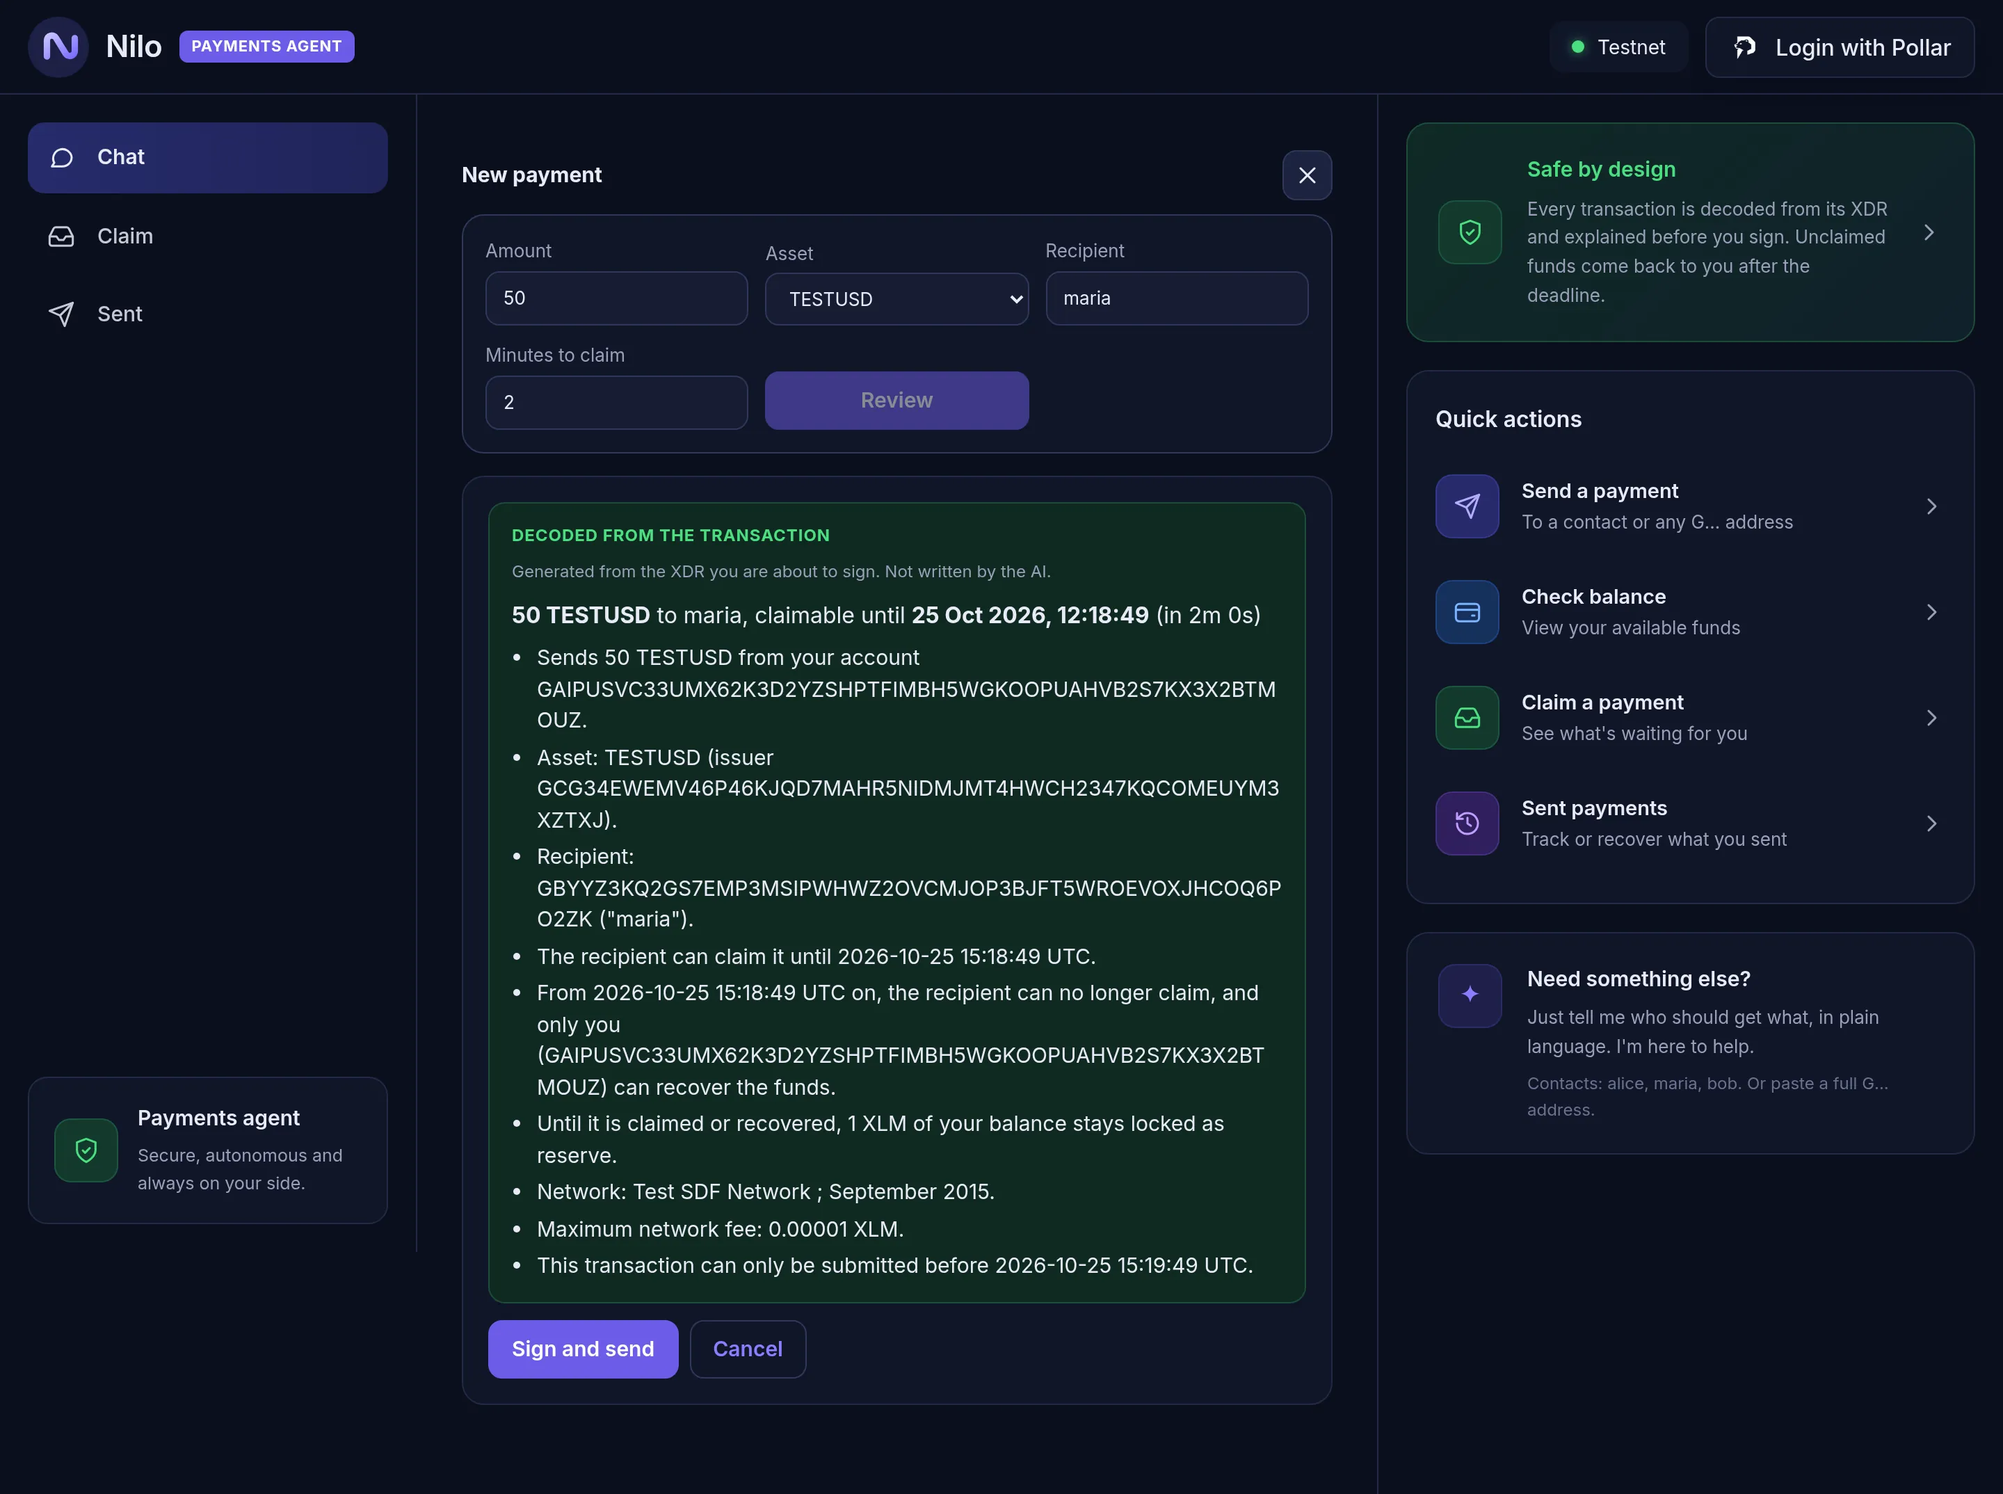
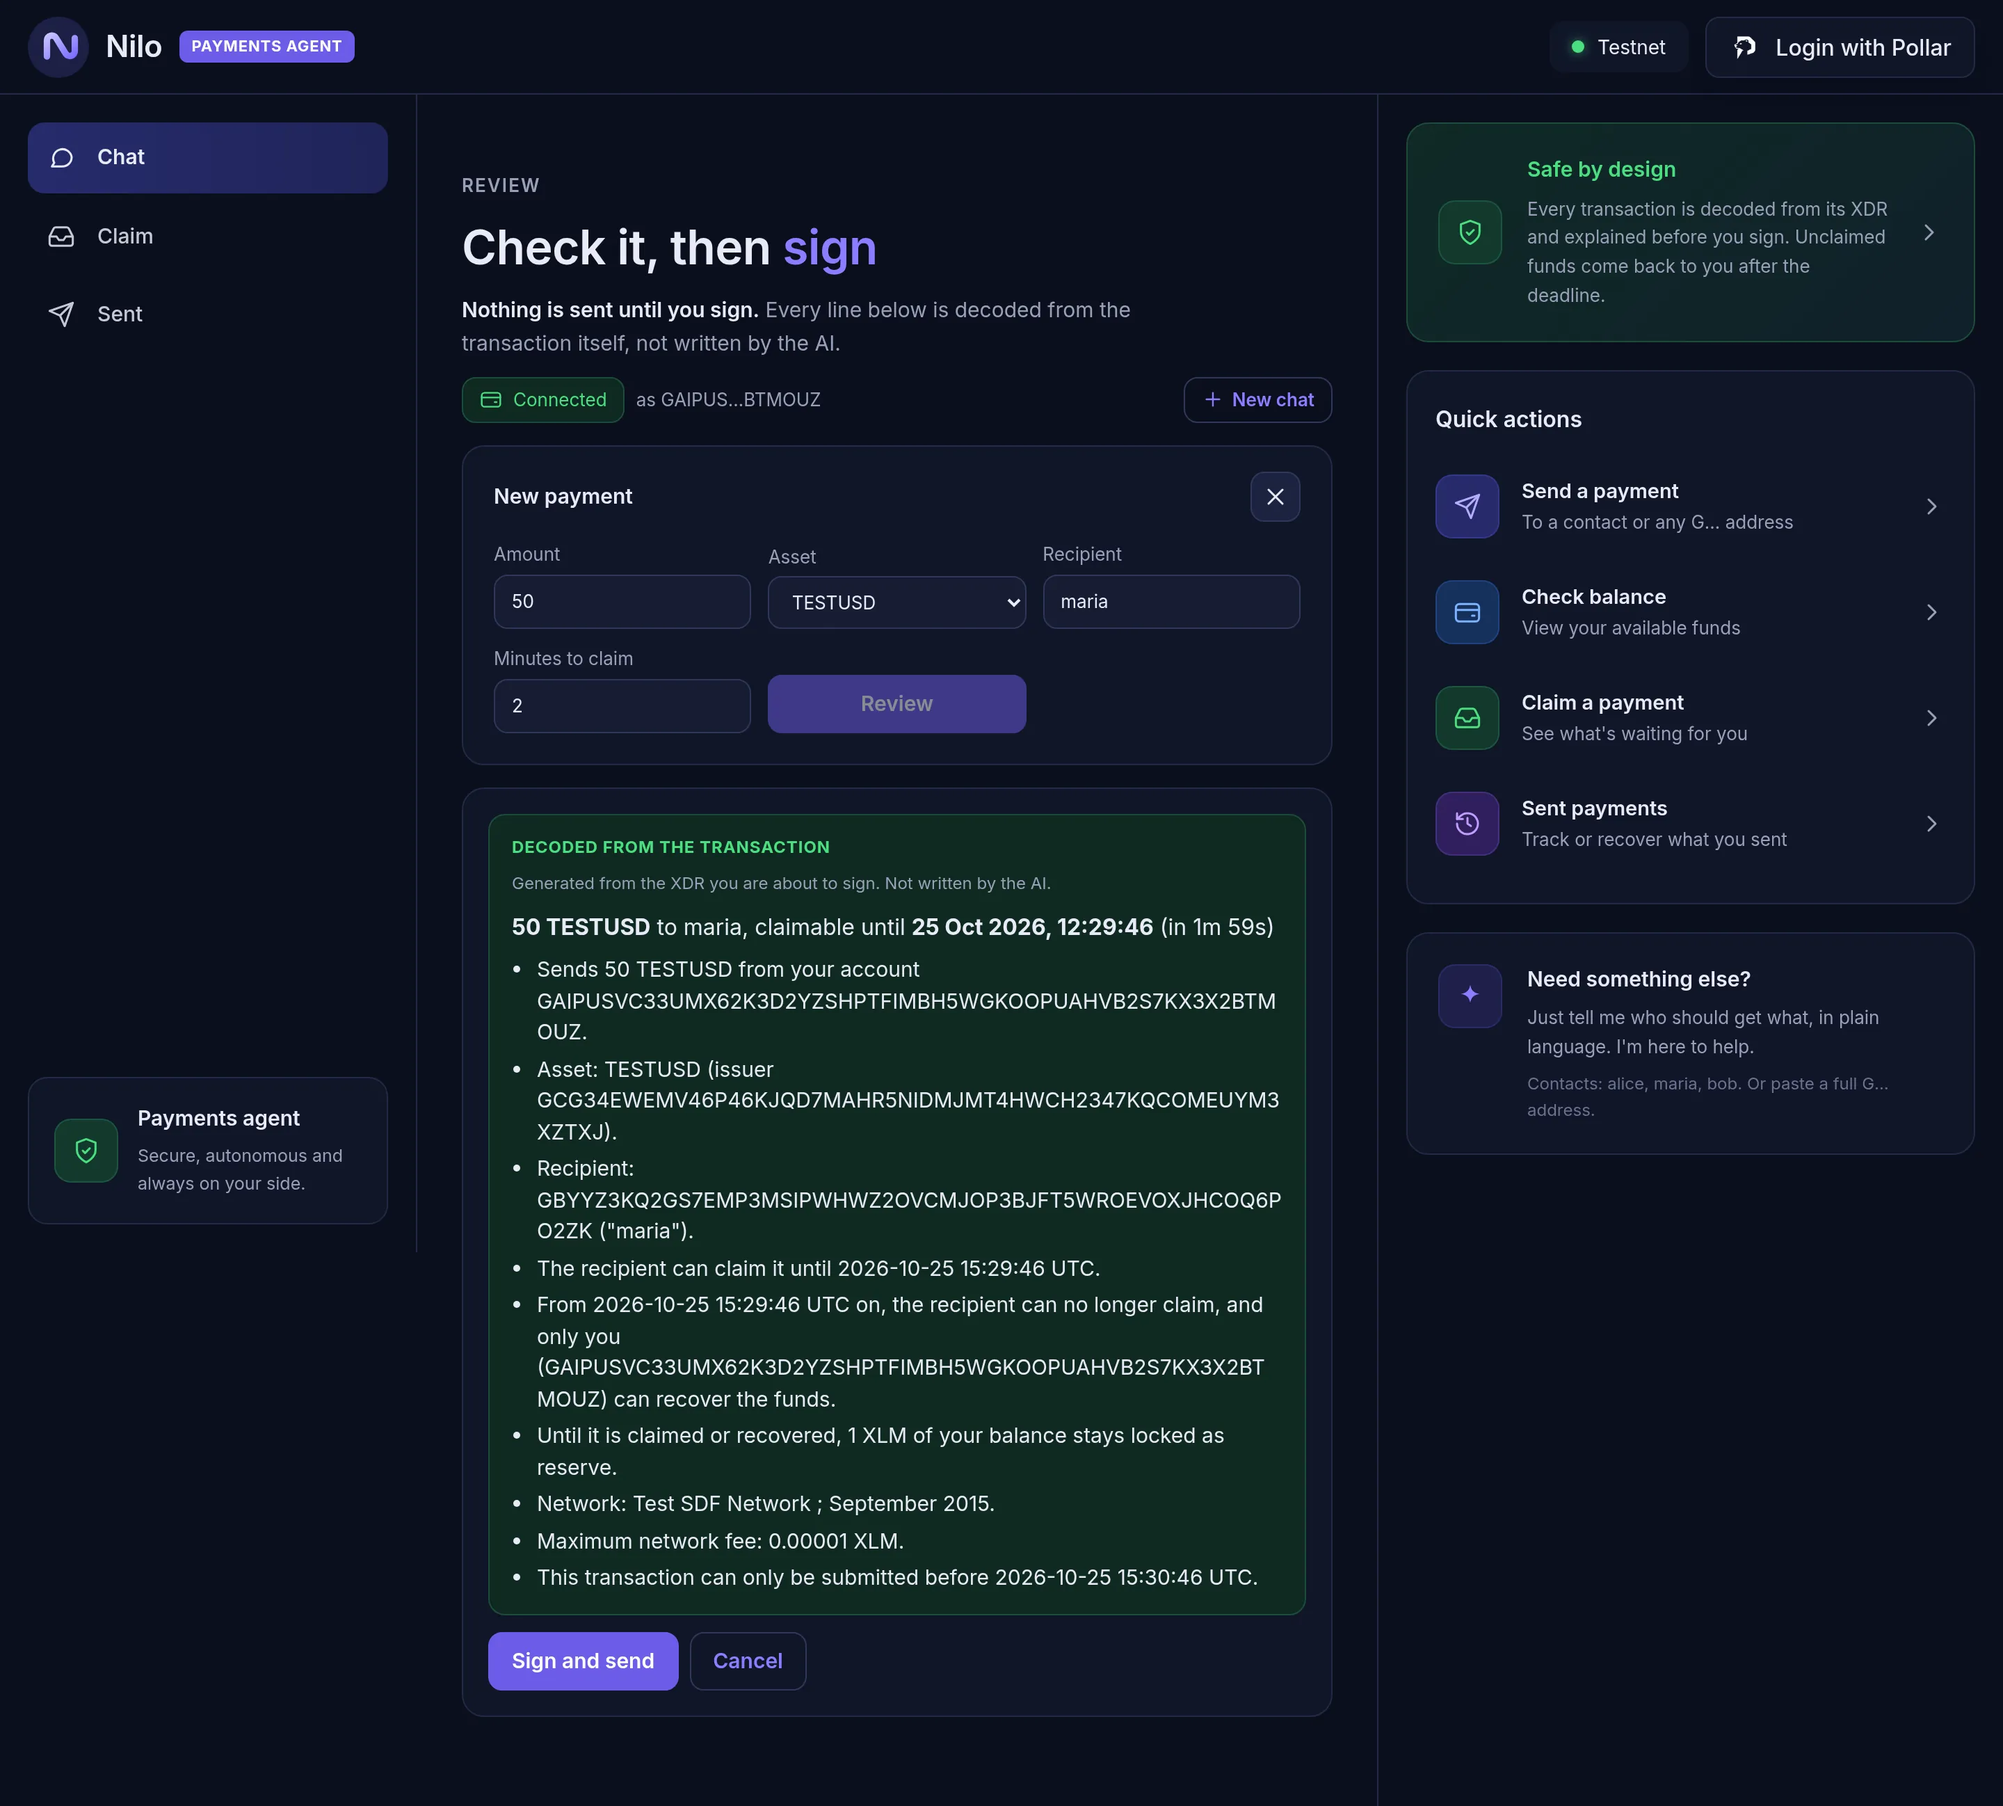
Restyle the review step like Claim
While a payment is under review the page head switches to Review:
"Check it, then sign" with a line saying nothing is sent until you
sign. The payment form and its header now sit in one card. README
review screenshot refreshed.

diff --git a/apps/web/src/pages/Send.tsx b/apps/web/src/pages/Send.tsx
@@ -176,16 +176,31 @@ export function SendPage() {
   return (
     <div className="stack chat-page page-wide">
       <header className="page-head">
-        <span className="eyebrow">Chat</span>
-        <h1>
-          Hi! I'm <span className="accent-word">Nilo</span>
-        </h1>
-        <p className="muted">
-          <strong className="lead">Your payments agent on Stellar.</strong>{" "}
-          {fresh
-            ? "Tell me who should get what and how long they have. I build the transaction, explain it in plain words before you sign, and you get it back if nobody claims it."
-            : "Ask for another payment, check your balance, or start over."}
-        </p>
+        {pending ? (
+          <>
+            <span className="eyebrow">Review</span>
+            <h1>
+              Check it, then <span className="accent-word">sign</span>
+            </h1>
+            <p className="muted">
+              <strong className="lead">Nothing is sent until you sign.</strong> Every line below is decoded from the
+              transaction itself, not written by the AI.
+            </p>
+          </>
+        ) : (
+          <>
+            <span className="eyebrow">Chat</span>
+            <h1>
+              Hi! I'm <span className="accent-word">Nilo</span>
+            </h1>
+            <p className="muted">
+              <strong className="lead">Your payments agent on Stellar.</strong>{" "}
+              {fresh
+                ? "Tell me who should get what and how long they have. I build the transaction, explain it in plain words before you sign, and you get it back if nobody claims it."
+                : "Ask for another payment, check your balance, or start over."}
+            </p>
+          </>
+        )}
         <div className="row">
           {address && (
             <>

diff --git a/apps/web/src/styles.css b/apps/web/src/styles.css
@@ -192,8 +192,13 @@ a.rail-card:hover { border-color: #2a6a50; }
 .bubble.user { align-self: flex-end; background: var(--accent-grad); color: #fff; border-bottom-right-radius: 6px; }
 .bubble.assistant { align-self: flex-start; background: var(--surface-2); border: 1px solid var(--border); border-bottom-left-radius: 6px; }
 
-.form-wrap { display: flex; flex-direction: column; gap: 10px; }
+.form-wrap {
+  display: flex; flex-direction: column; gap: 14px; padding: 18px 22px 22px;
+  background: var(--surface); border: 1px solid var(--border); border-radius: var(--radius);
+}
+.form-wrap .form { background: none; border: none; padding: 0; }
 .form-head { display: flex; align-items: center; justify-content: space-between; }
+.form-head strong { font-size: 15px; font-weight: 600; }
 .form-head .icon-button { width: 36px; height: 36px; }
 
 .page-head { display: flex; flex-direction: column; gap: 8px; padding-top: 16px; }
